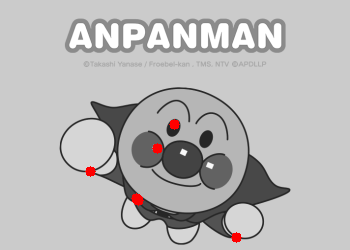
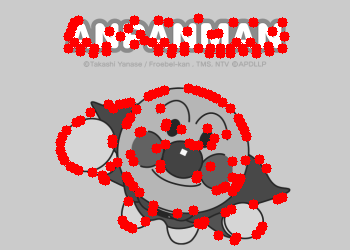
Fix the error of DoG point in HW1

diff --git a/HW1/hw1_material/part1/DoG.py b/HW1/hw1_material/part1/DoG.py
@@ -47,8 +47,9 @@ class Difference_of_Gaussian(object):
                 if not os.path.exists("out"):
                     os.mkdir("out")
                 for i in range(len(img)):
-                    img[i] = ((img[i] - img[i].min()) / (img[i].max()-img[i].min()) *255).round()
-                    cv2.imwrite("out/" + keyword + str(i+1) +".png", img[i])
+                    out = img[i].copy()
+                    out = ((out - out.min()) / (out.max()-out.min()) *255).round()
+                    cv2.imwrite("out/" + keyword + str(i+1) +".png", out)
 
         saveResult(dog_images, "DoG1-")
         saveResult(dog_images_resise, "DoG2-")
@@ -83,14 +84,18 @@ class Difference_of_Gaussian(object):
             array =  []
             for i in range(img.shape[0]):
                 for j in range(img.shape[1]):
-                    if img[i][j] > self.threshold:
+                    if img[i][j] >= self.threshold:
                         array.append((i,j))
                         
             return np.array(array)
-
-        local_extremum = np.concatenate((threshold(extremum_images),threshold(extremum_images_resize)*2),axis=0)
-
-
+        
+        threshold_points = threshold(extremum_images)
+        threshold_points_resize = threshold(extremum_images_resize) * 2
+        if threshold_points_resize != []:
+            local_extremum = np.concatenate((threshold_points,threshold_points_resize),axis=0)
+        else: # Fix error concatenate with []
+            local_extremum = np.concatenate((threshold_points,threshold_points),axis=0)
+            
         # Step 4: Delete duplicate keypoints
         # - Function: np.unique
         keypoints = np.unique(local_extremum,axis=0)

diff --git a/HW1/hw1_material/part1/main.py b/HW1/hw1_material/part1/main.py
@@ -25,6 +25,7 @@ def main():
     keypoints = DoG.get_keypoints(img_gray, save_images = True)
 
     plot_keypoints(img_gray, keypoints, "out/keypoints.png")
+    print('Done %s ...'%args.image_path)
 
 if __name__ == '__main__':
     main()
